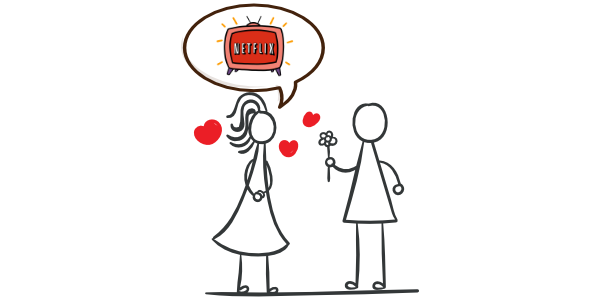
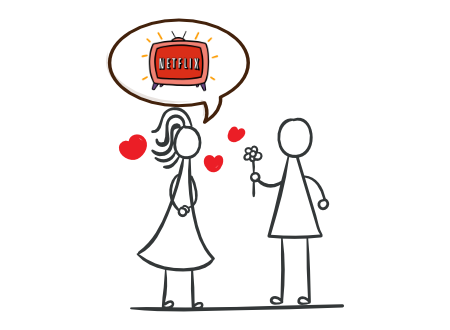
thumbnails

Changed region(s): [[0.2178, 0.0, 0.7778, 0.99]]

diff --git a/blog/0505-hello-internet.md b/blog/0505-hello-internet.md
@@ -3,7 +3,7 @@ title: Hello Internet 3.0
 date: 2020-05-05
 author: Kevin
 excerpt: I'm starting a new blog
-image: https://i.pinimg.com/originals/55/d8/40/55d840e6498b80521b106b0646247cb6.jpg
+image: https://www.colorsandcode.com/thumbnail-hello.png
 ---
 
 I remember making my first website almost 15 years ago. I cringe thinking about that site today. As the internet has evolved through the ages of Geocities, MySpace, and Squarespace, I find myself thinking about starting up another blog.
